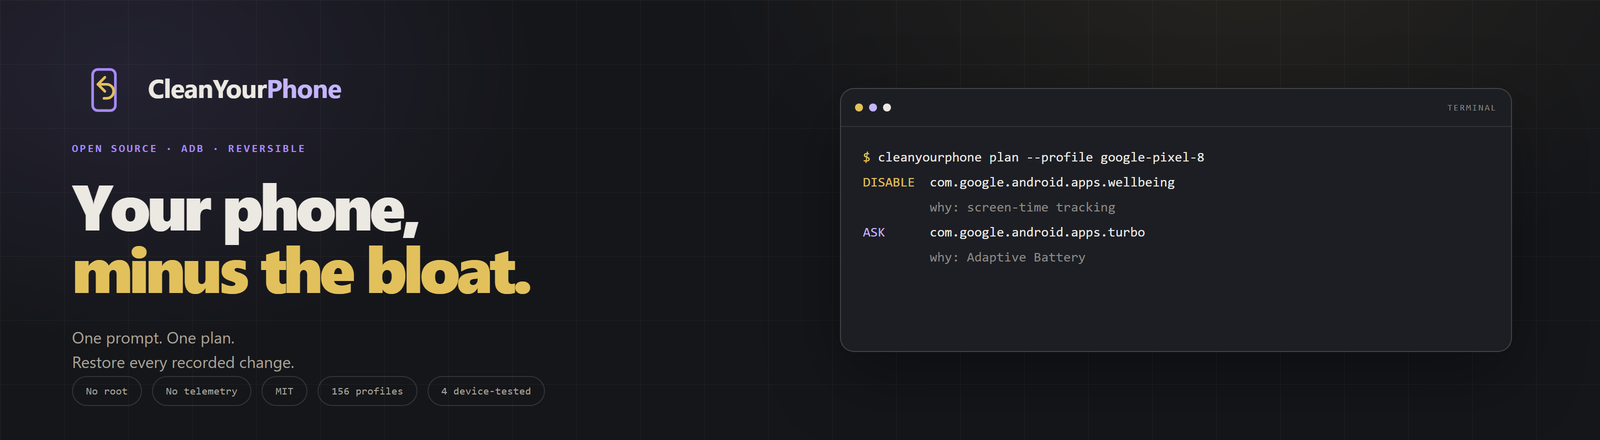
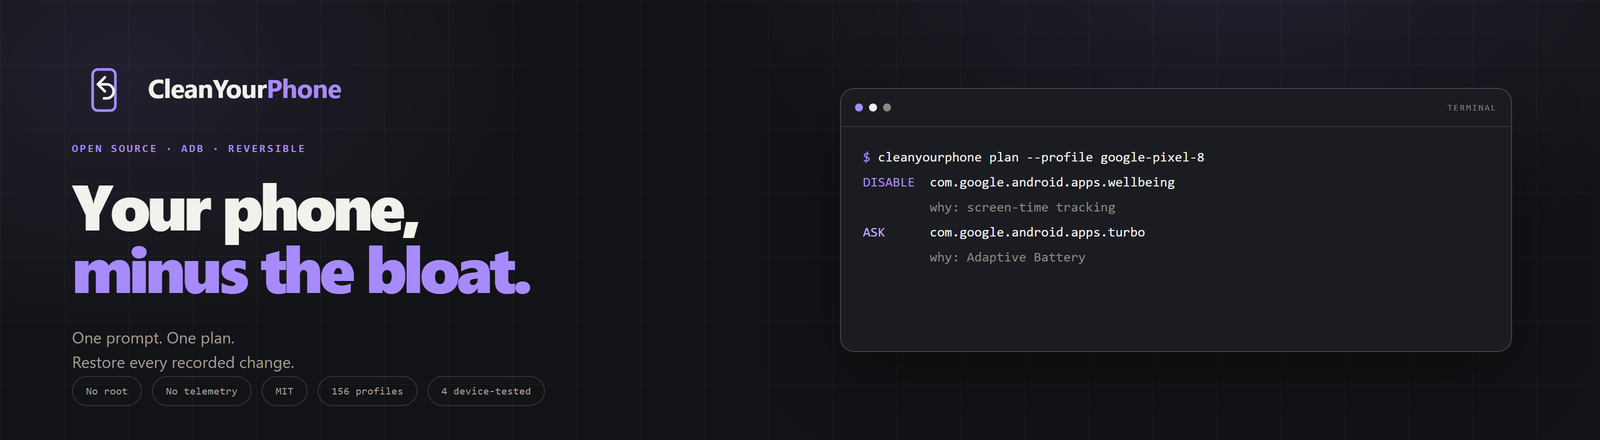
brand: return to the purple, white and graphite palette
Sync the logo set, banner, social preview, README badges and brand guide with the live website: graphite #121316, purple #A78BFA and white #F3F1EC. Retire gold and coral, and use the light purple tint only for ASK.

diff --git a/docs/BRAND.md b/docs/BRAND.md
@@ -46,15 +46,17 @@ never irreversible deletion.
 
 | Color | Role |
 |---|---|
-| Ink `#15161A` | Primary background and icon tile. |
-| Panel `#1C1E24` | Cards and prompt block. |
-| Panel 2 `#23252D` | Raised panels and gradients. |
-| Text `#ECE9E2` | Headlines and the `CleanYour` wordmark. |
-| Muted `#A8A39B` | Secondary text; never part of the essential symbol. |
-| Gold `#E2C15C` | Primary actions, the return arrow and the main CTA. |
-| Lavender `#A78BFA` | Phone outline, links, commands and undo. |
-| Bright lavender `#C4B5FD` | The `Phone` wordmark only. |
-| Coral `#D97A5E` | Warning states only; never a decorative accent. |
+| Graphite `#121316` | Primary background shared with CleanYourMail; icon tile and one-color mark on light surfaces. |
+| Panel `#1B1C21` | Cards, prompt block and raised surfaces. |
+| Panel 2 `#2A2C31` | Raised panels and gradients. |
+| Text `#F3F1EC` | Headlines, body text and the `CleanYour` wordmark. |
+| Muted `#A19E96` | Secondary text; never part of the essential symbol. |
+| Muted 2 `#8B8881` | Tertiary labels, terminal chrome and metadata. |
+| Purple `#A78BFA` | Phone, return gesture, primary actions, links, commands and the `Phone` wordmark. |
+| Light purple `#C4B5FD` | Only `ASK` and warning states; a tint, never a second brand color. |
+
+Purple and white/graphite are the brand colors. The light purple is only a functional tint for `ASK`.
+Gold and coral are retired.
 
 ## Typography
 
@@ -63,7 +65,7 @@ never irreversible deletion.
 - **Mono:** `Cascadia Code`, `SFMono-Regular`, `Consolas`, `Liberation Mono`, monospace, for commands,
   package names, states and evidence.
 - The wordmark is always **CleanYourPhone**, with no spaces or alternate capitalization. In the color
-  version, **CleanYour** uses the text color and **Phone** uses bright lavender `#C4B5FD`; the
+  version, **CleanYour** uses the text color and **Phone** uses the logo purple `#A78BFA`; the
   monochrome lockup stays one color.
 
 ## Logo
@@ -78,7 +80,7 @@ from the previous mark is retired because it reads as generic "magic cleaner".
 |---|---|
 | `assets/logo.svg` | Primary app-icon tile, 64×64, dark background. |
 | `assets/favicon.svg` | Simplified 32×32 favicon. |
-| `assets/logo-mark.svg` | Mark-only, transparent, lavender/gold. |
+| `assets/logo-mark.svg` | Mark-only, transparent, purple/white. |
 | `assets/logo-mono.svg` | One-color mark for light backgrounds. |
 | `assets/logo-lockup.svg` | Horizontal mark + wordmark for dark backgrounds. |
 | `assets/logo-lockup-mono.svg` | Horizontal mark + wordmark for light backgrounds. |
@@ -94,8 +96,8 @@ The website uses `logo.svg` and `favicon.svg`; the full set remains in the skill
 
 ### Color use
 
-- Dark backgrounds: primary tile or the lavender/gold mark.
-- Light backgrounds: the monochrome `#15161A` mark or mono lockup. Do not put the lavender/gold mark on
+- Dark backgrounds: primary tile or the purple/white mark.
+- Light backgrounds: the monochrome `#121316` mark or mono lockup. Do not put the purple/white mark on
   white or busy imagery.
 - Do not use color as the only state indicator in UI; pair it with a label.
 
@@ -113,8 +115,8 @@ The website uses `logo.svg` and `favicon.svg`; the full set remains in the skill
   full lockup there; it would duplicate the name.
 - **Footer:** the same tile at 26 px.
 - **Favicon:** `assets/favicon.svg`; check it in light and dark browser tabs.
-- **README banner:** ink background, large lockup, tagline and plenty of negative space. Export PNG
-  at high resolution and keep both repositories in sync.
+- **README banner:** graphite background, large lockup, tagline and plenty of negative space. Export
+  PNG at high resolution and keep both repositories in sync.
 - **Social preview:** 1280×640 with the lockup and tagline as the main hierarchy. No mockups,
   sparkles or small print; the symbol must survive the thumbnail.
 - **Release notes:** start with the user-facing change, then the technical detail.

diff --git a/README.es.md b/README.es.md
@@ -19,11 +19,11 @@
 
 <p align="center">
   <a href="https://github.com/jparedesDS/cleanyourphone/actions/workflows/ci.yml"><img src="https://github.com/jparedesDS/cleanyourphone/actions/workflows/ci.yml/badge.svg" alt="CI"></a>
-  <img src="https://img.shields.io/badge/license-MIT-e2c15c?labelColor=15161a" alt="MIT">
-  <img src="https://img.shields.io/badge/python-3.10%2B-e2c15c?labelColor=15161a" alt="Python 3.10+">
-  <img src="https://img.shields.io/badge/telemetry-none-e2c15c?labelColor=15161a" alt="Sin telemetría">
-  <img src="https://img.shields.io/badge/profiles-156-e2c15c?labelColor=15161a" alt="156 perfiles">
-  <a href="https://github.com/jparedesDS/cleanyourphone/releases"><img src="https://img.shields.io/github/v/release/jparedesDS/cleanyourphone?color=e2c15c&labelColor=15161a" alt="release"></a>
+  <img src="https://img.shields.io/badge/license-MIT-a78bfa?labelColor=121316" alt="MIT">
+  <img src="https://img.shields.io/badge/python-3.10%2B-a78bfa?labelColor=121316" alt="Python 3.10+">
+  <img src="https://img.shields.io/badge/telemetry-none-a78bfa?labelColor=121316" alt="Sin telemetría">
+  <img src="https://img.shields.io/badge/profiles-156-a78bfa?labelColor=121316" alt="156 perfiles">
+  <a href="https://github.com/jparedesDS/cleanyourphone/releases"><img src="https://img.shields.io/github/v/release/jparedesDS/cleanyourphone?color=a78bfa&labelColor=121316" alt="release"></a>
 </p>
 
 # CleanYourPhone

diff --git a/README.md b/README.md
@@ -19,11 +19,11 @@
 
 <p align="center">
   <a href="https://github.com/jparedesDS/cleanyourphone/actions/workflows/ci.yml"><img src="https://github.com/jparedesDS/cleanyourphone/actions/workflows/ci.yml/badge.svg" alt="CI"></a>
-  <img src="https://img.shields.io/badge/license-MIT-e2c15c?labelColor=15161a" alt="MIT">
-  <img src="https://img.shields.io/badge/python-3.10%2B-e2c15c?labelColor=15161a" alt="Python 3.10+">
-  <img src="https://img.shields.io/badge/telemetry-none-e2c15c?labelColor=15161a" alt="No telemetry">
-  <img src="https://img.shields.io/badge/profiles-156-e2c15c?labelColor=15161a" alt="156 profiles">
-  <a href="https://github.com/jparedesDS/cleanyourphone/releases"><img src="https://img.shields.io/github/v/release/jparedesDS/cleanyourphone?color=e2c15c&labelColor=15161a" alt="release"></a>
+  <img src="https://img.shields.io/badge/license-MIT-a78bfa?labelColor=121316" alt="MIT">
+  <img src="https://img.shields.io/badge/python-3.10%2B-a78bfa?labelColor=121316" alt="Python 3.10+">
+  <img src="https://img.shields.io/badge/telemetry-none-a78bfa?labelColor=121316" alt="No telemetry">
+  <img src="https://img.shields.io/badge/profiles-156-a78bfa?labelColor=121316" alt="156 profiles">
+  <a href="https://github.com/jparedesDS/cleanyourphone/releases"><img src="https://img.shields.io/github/v/release/jparedesDS/cleanyourphone?color=a78bfa&labelColor=121316" alt="release"></a>
 </p>
 
 # CleanYourPhone

diff --git a/CHANGELOG.md b/CHANGELOG.md
@@ -8,10 +8,10 @@ All notable changes to CleanYourPhone are documented here. The format is based o
 
 ### Changed
 
-- Final logo system and palette: ink `#15161A`, gold `#E2C15C` for primary actions and the return
-  arrow, lavender `#A78BFA` for the phone outline, links and undo, bright `#C4B5FD` for the `Phone`
-  wordmark, and coral `#D97A5E` for warnings. The sparkle is replaced by a contained return arrow,
-  with primary, mark-only, monochrome, favicon and horizontal lockup assets. The brand rules are in
+- Final logo system and palette: graphite `#121316` shared with CleanYourMail, purple `#A78BFA`,
+  white `#F3F1EC` and a light purple `#C4B5FD` tint only for `ASK`. The sparkle is replaced by a
+  contained return arrow, and the wordmark tints **Phone** in the logo purple. Primary, mark-only,
+  monochrome, favicon and horizontal lockup assets are included. The brand rules are in
   `docs/BRAND.md`.
 
 ## [0.2.1] - 2026-11-02
